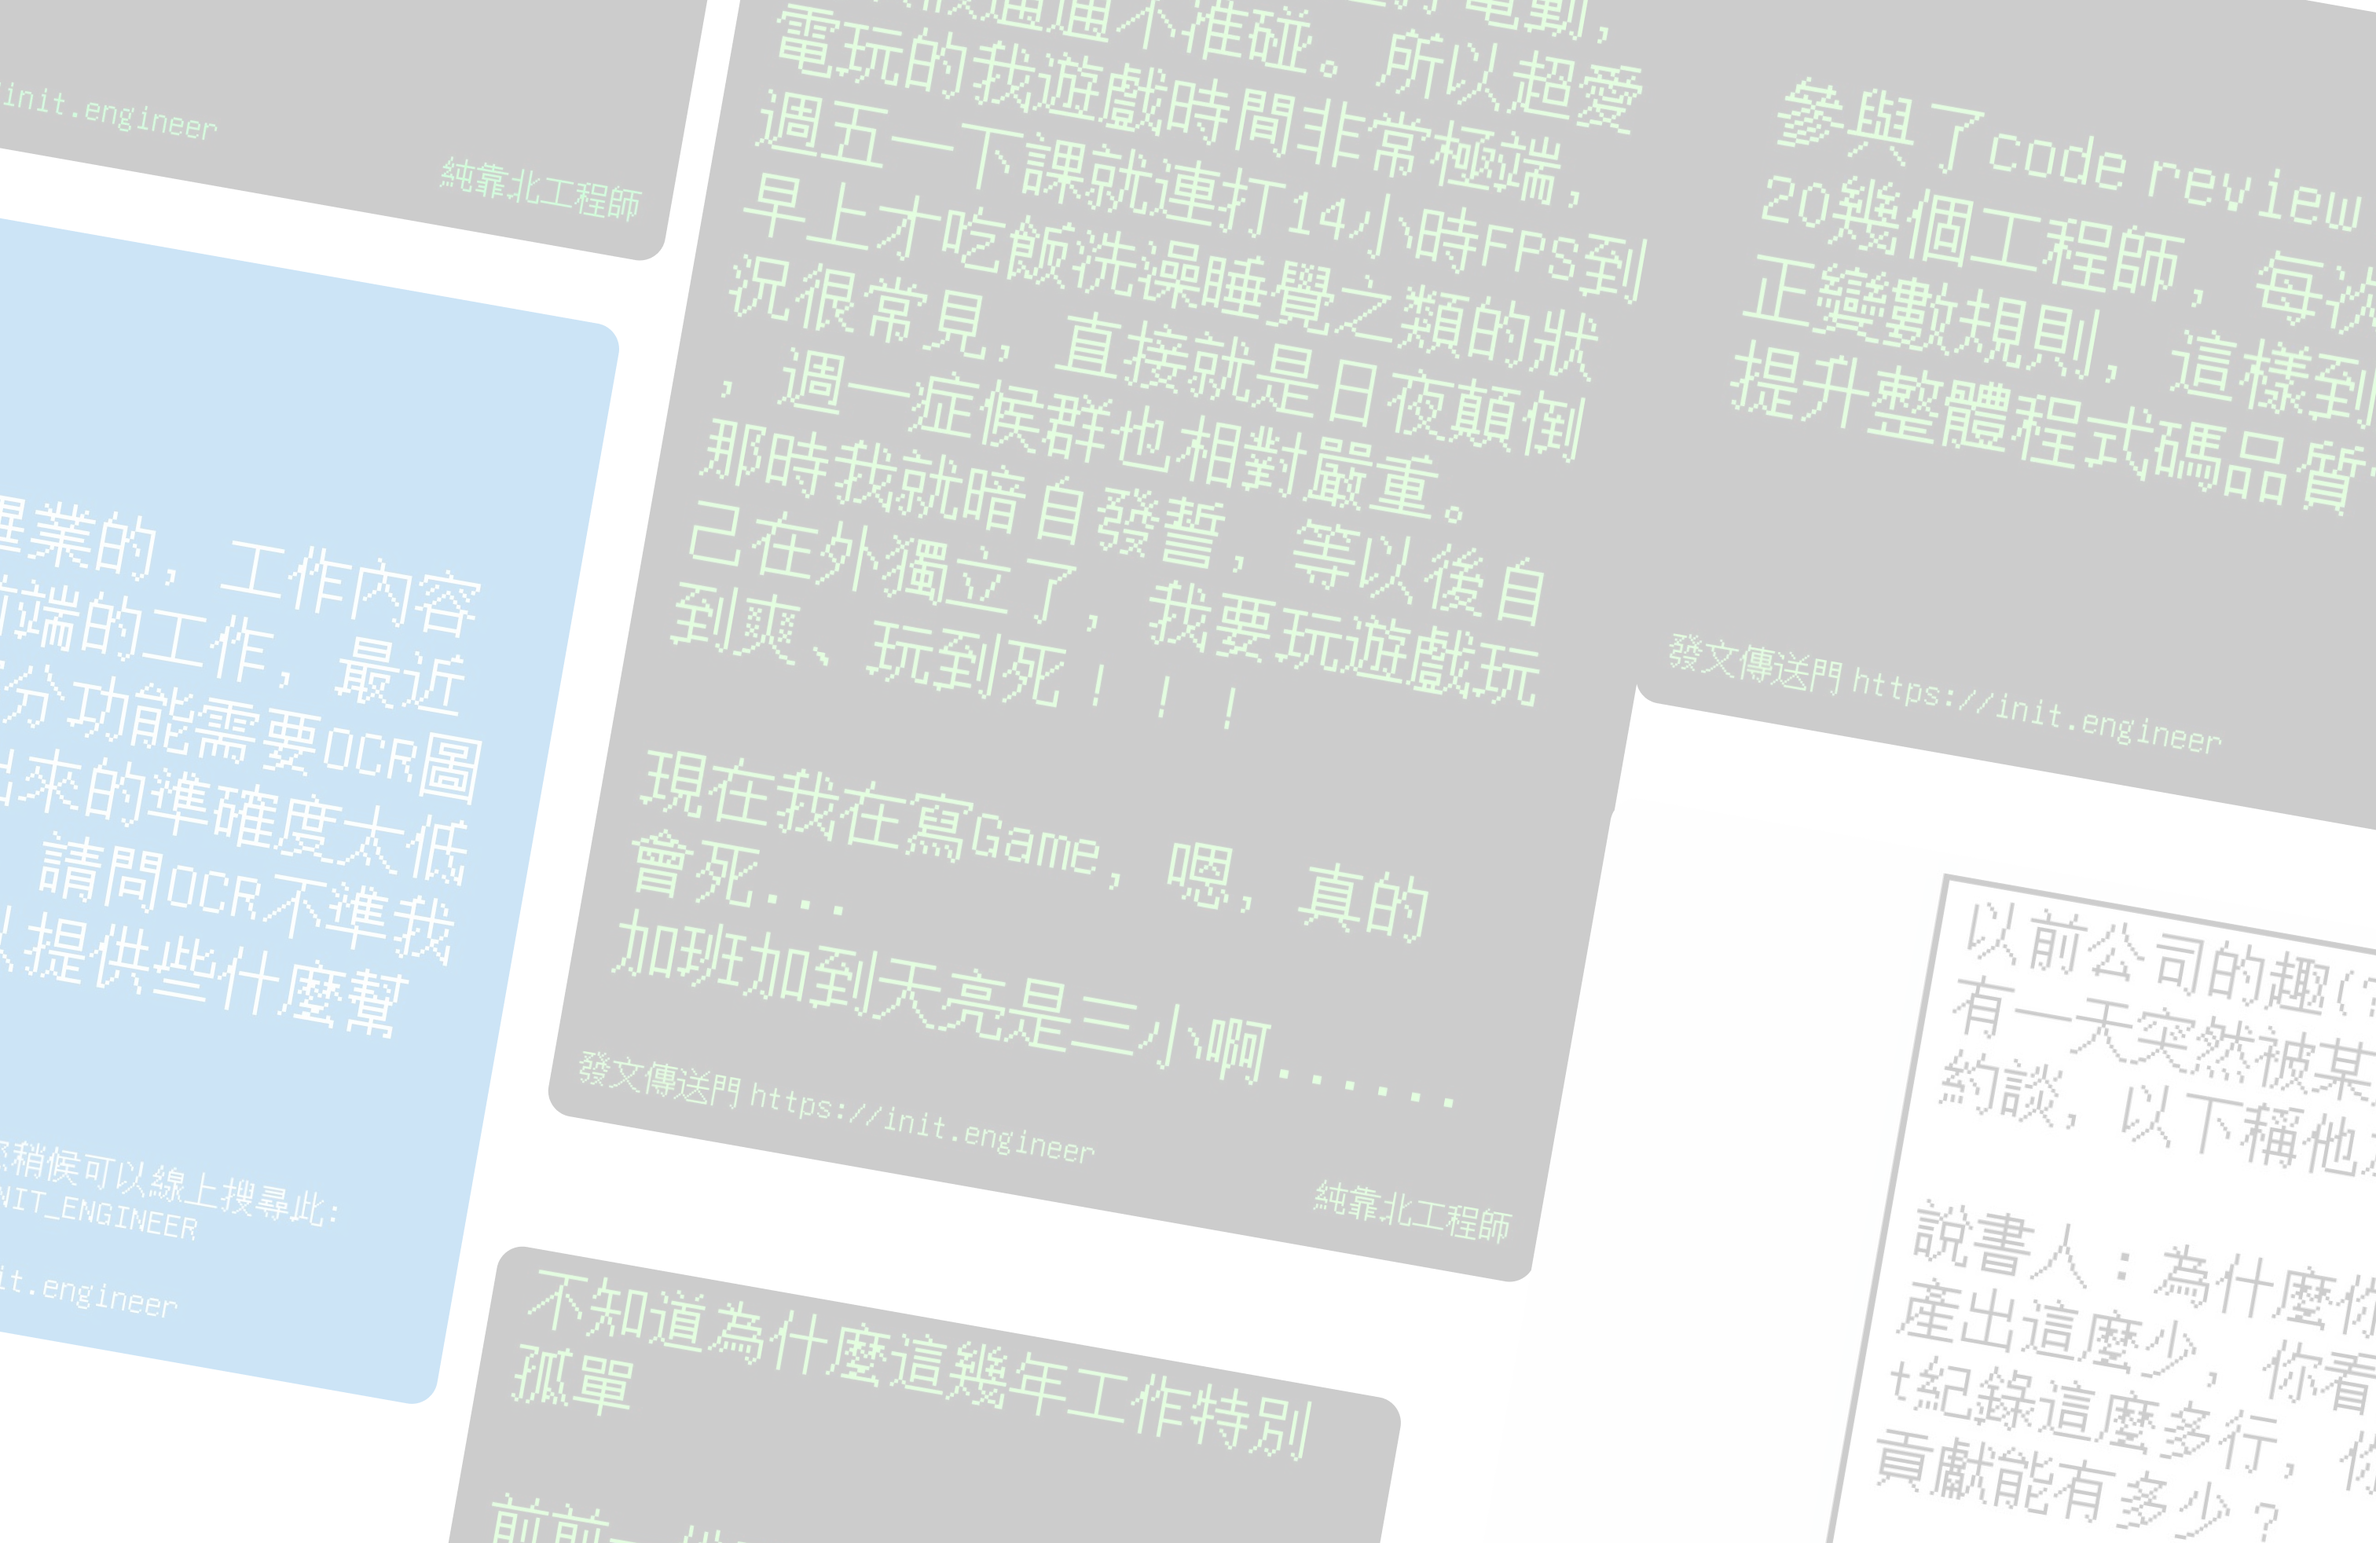
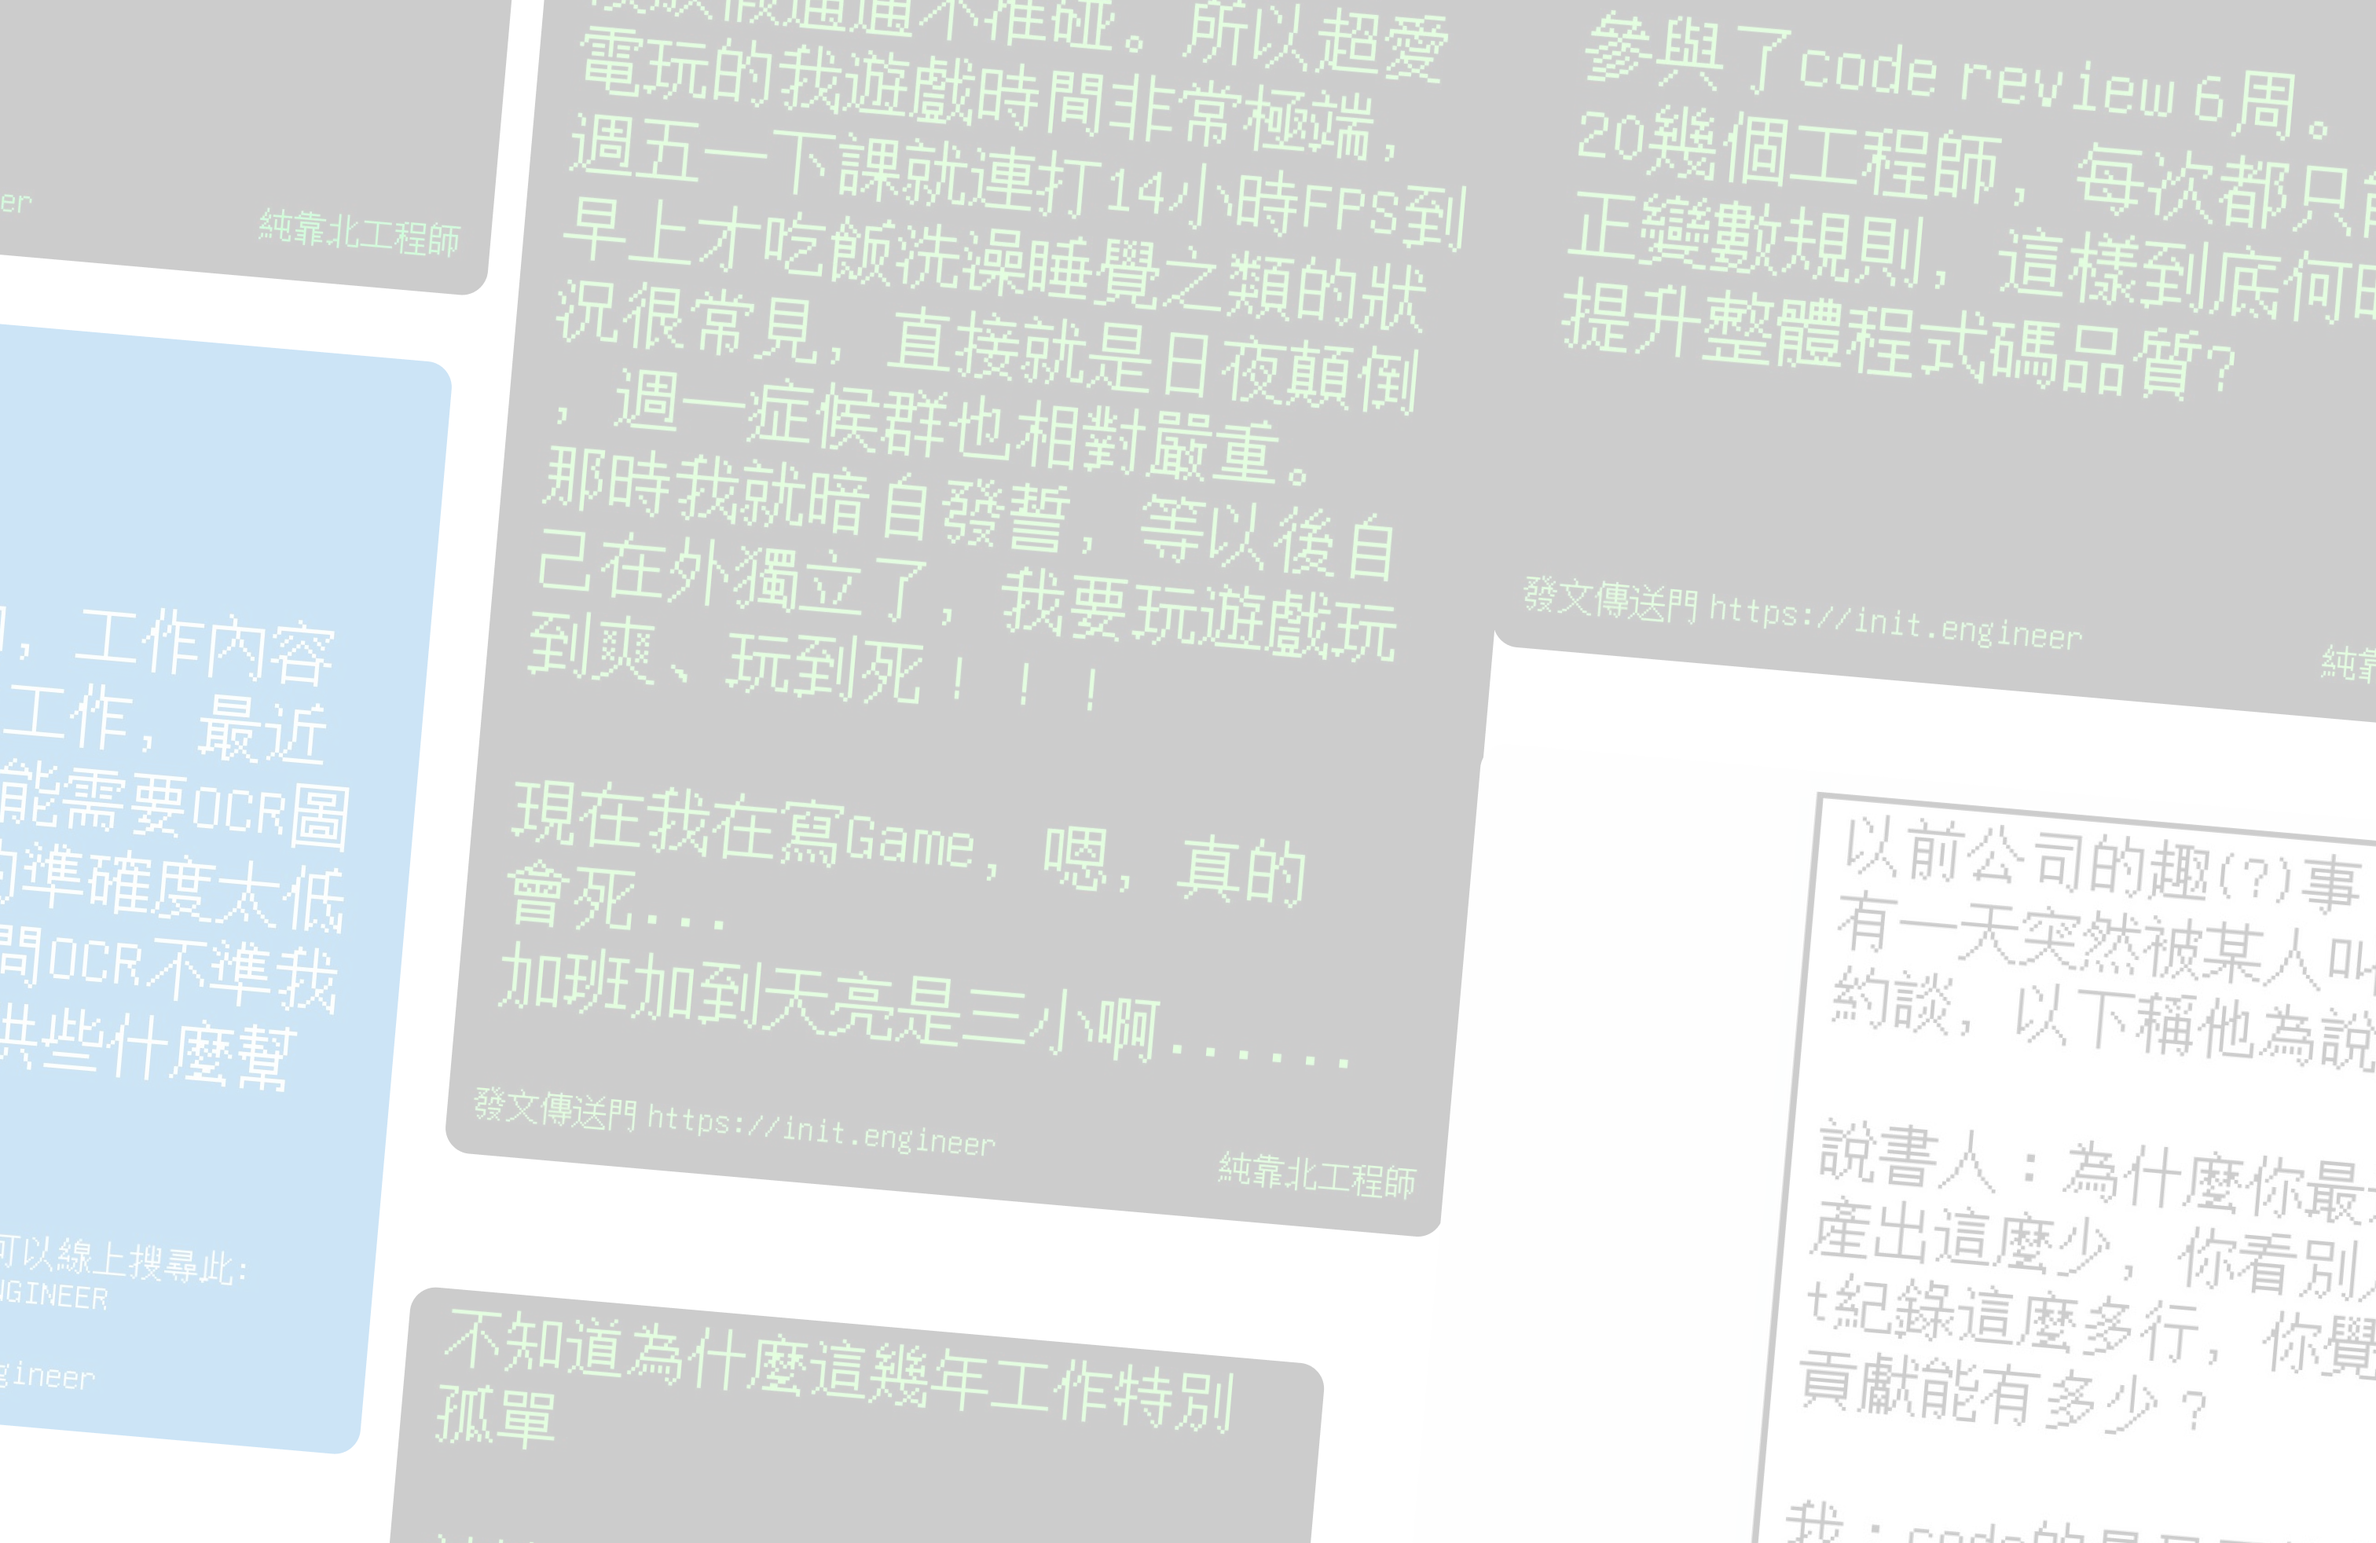
feat: complete homepage

diff --git a/resources/views/components/home/slogan.blade.php b/resources/views/components/home/slogan.blade.php
@@ -1,3 +1,3 @@
-<section class="slogan font-dos text-neutral-100" style="transform: rotate(10deg)">
-    <h1 class="text-4xl title">今天，又有什麼靠北事？</h1>
+<section class="slogan font-dos text-neutral-100 opacity-90">
+    <h1 class="text-6xl leading-snug title line-height-2">今天，<br />又有什麼<span style="color: #DC6F6F">靠北</span>事？</h1>
 </section>

diff --git a/resources/views/frontend/index.blade.php b/resources/views/frontend/index.blade.php
@@ -3,7 +3,8 @@
 @section('title', __('Home'))
 
 @section('content')
-<section class="flex items-center h-screen">
+<section class="flex flex-col items-center justify-center h-screen gap-6" style="transform: rotate(5deg)">
     <x-home.slogan />
+    <x-home.navigations />
 </section>
 @endsection

diff --git a/resources/views/stories/home/slogan.blade.php b/resources/views/stories/home/slogan.blade.php
@@ -1,1 +1,3 @@
+@storybook([ "status" => "stable" ])
+
 <x-home.slogan />
